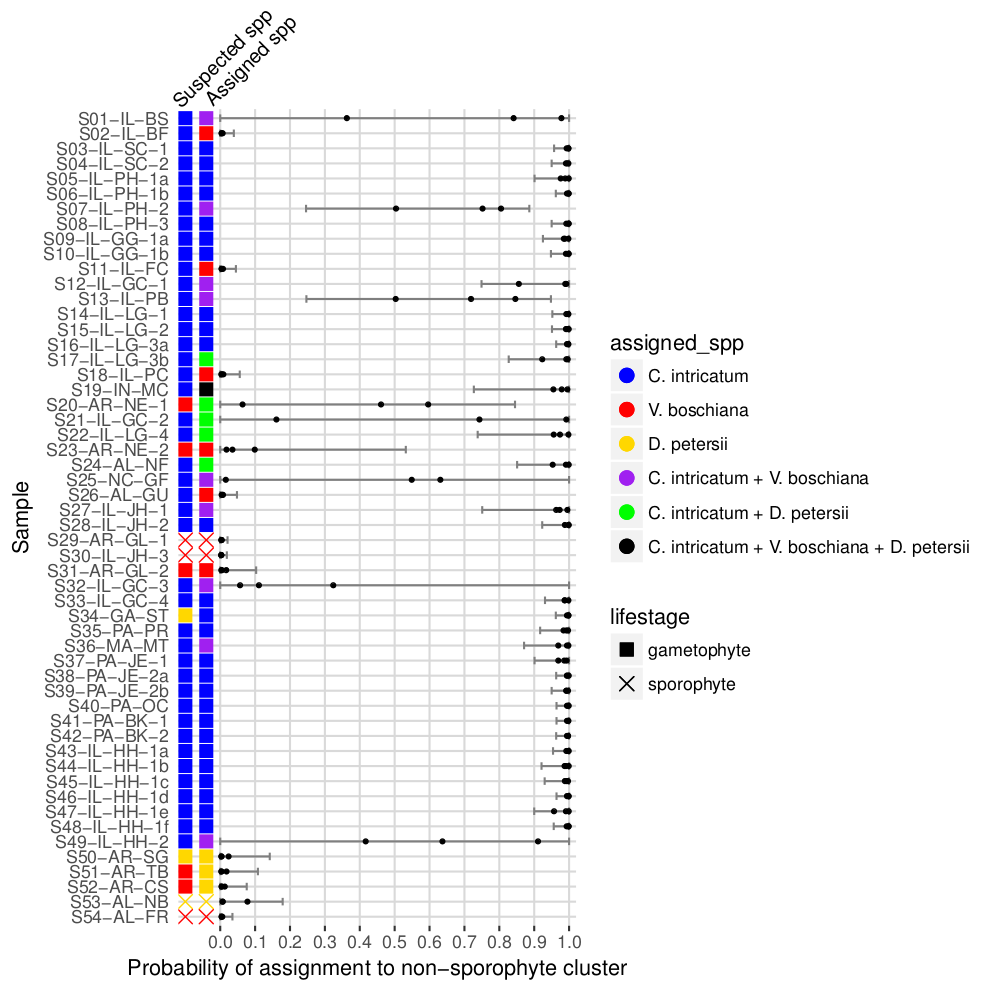
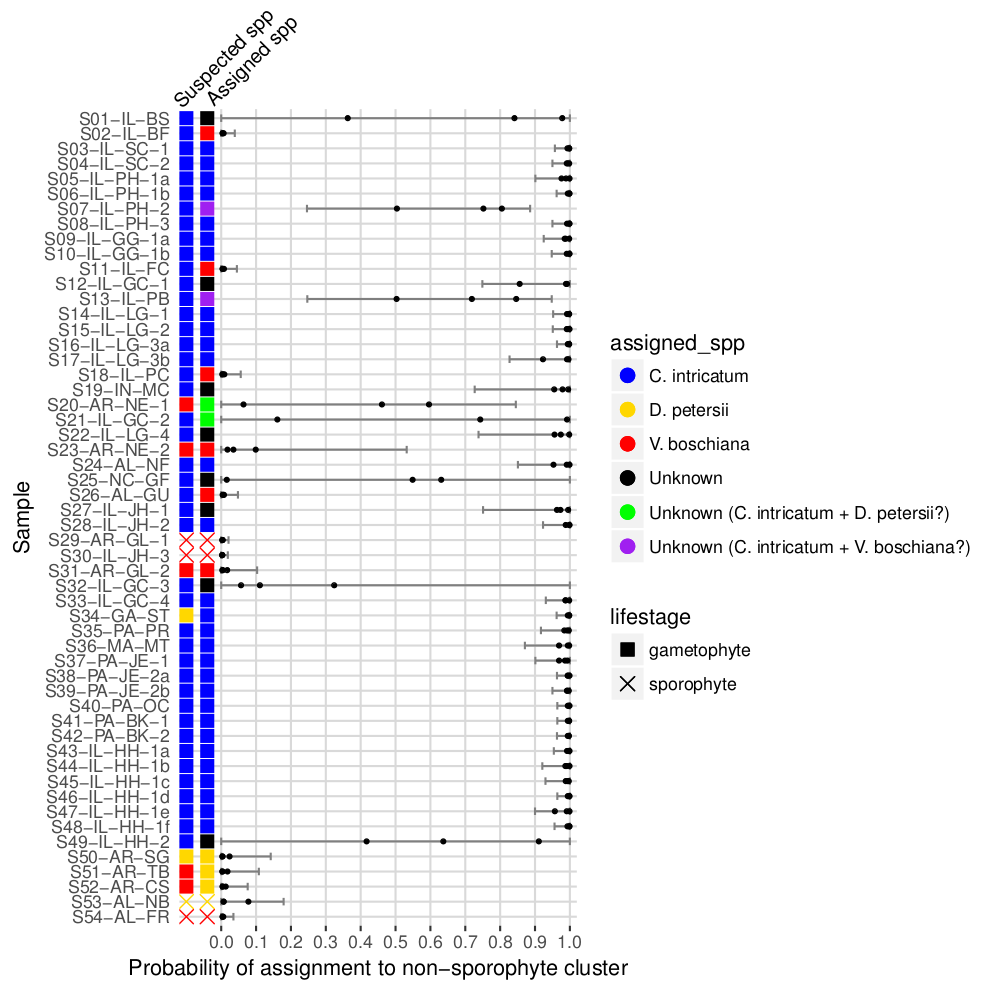
Changing how I handle the unknown species. Stop calling them mixed except for the 4 that I suspect really are.

Changed region(s): [[0.0, 0.0, 0.6409, 1.0], [0.6104, 0.3337, 0.9766, 0.5763], [0.6104, 0.6067, 0.763, 0.6977]]

diff --git a/Crepidomanes_GBS_manuscript.md b/Crepidomanes_GBS_manuscript.md
@@ -31,11 +31,11 @@ METHODS
 
 ## Sampling
 
-50 suspected _C.intricatum_, _D. petersii_, or _V. boschiana_ gametophyte samples, one _D. petersii_ sporophyte sample, and three _V. boschiana_ sporophyte samples collected between 1965 and 2007 were selected to represent much of the known geographic range of _C.intricatum_. Samples included populations from previously glaciated areas, from multiple sites within some geographic regions, and from multiple patches within some sites. In addition, multiple DNA samples were taken from some collections to look for variation within presumed clones (Table 1, Figure 2).
+50 suspected _C.intricatum_, _D. petersii_, or _V. boschiana_ gametophyte samples, one _D. petersii_ sporophyte sample, and three _V. boschiana_ sporophyte samples collected between 1965 and 2007 were selected to represent much of the known geographic range of _C.intricatum_. Samples included populations from previously glaciated areas, from multiple sites within some geographic regions, and from multiple patches within some sites. In addition, multiple DNA samples were extracted from some collections to look for variation within presumed clones (Table 1, Table 2).
 
 ## DNA extraction
 
-Because of the small size of individual gametophytes and their tangled filamentous growth, each sample represents many separate individuals (presumably clones) in close contact with each other in <1 square-cm of silica-dried gametophyte mat. Bryophytes, lichen, sand, and other contaminants were manually separated from the gametophyte tissue under 20X magnification. DNA was extracted from 2--70 mg of cleaned tissue using a CTAB protocol [@Doyle1987-dp] with the following modifications to the cell disruption process. Samples were ground in CTAB buffer in 1.5mL tubes using a pestle attached to an electric drill on its slowest speed setting. While grinding, the tube was bathed in ice and pressure on the drill was applied in 1 second pulses to avoid heating the sample. For samples with less than 10 mg of tissue, 10--50 mg of autoclaved sand was added to improve grinding. Each sample was ground in three rounds of approximately 100 pulses with 100 uL of CTAB buffer in the first round and an additional 200uL added in subsequent rounds (500 uL total). After extraction the DNA was quantified using a Qubit fluorometer (Invitrogen, Carlsbad, California, USA).
+Because of the small size of individual gametophytes and their tangled filamentous growth, each sample represents many individuals that were growing in close contact with each other (presumably clones) in <1 square-cm of silica-dried gametophyte mat. Bryophytes, lichen, sand, and other contaminants were manually separated from the gametophyte tissue under 20X magnification. DNA was extracted from 2--70 mg of cleaned tissue using a CTAB protocol [@Doyle1987-dp] with the following modifications to the cell disruption process. Samples were ground in CTAB buffer in 1.5mL tubes using a pestle attached to an electric drill on its slowest speed setting. While grinding, the tube was bathed in ice and pressure on the drill was applied in 1 second pulses to avoid heating the sample. For samples with less than 10 mg of tissue, 10--50 mg of autoclaved sand was added to improve grinding. Each sample was ground in three rounds of approximately 100 pulses with 100 uL of CTAB buffer in the first round and an additional 200uL added in subsequent rounds (500 uL total). After extraction the DNA was quantified using a Qubit fluorometer (Invitrogen, Carlsbad, California, USA).
 
 ## Library preparation and Illumina sequencing
 
@@ -45,11 +45,11 @@ The GBS library was prepared according to an established double-digest restricti
 
 Raw illumina reads were inspected for quality using fastQC [@Andrews2010-yx] and analyzed with ipyRAD v.0.7.1 [@Eaton2014-rr] using default settings except as noted below. Reads were sorted by barcode allowing up to two mismatched bases in the barcode sequence, filtered to remove low quality bases and reads with excessive low quality bases, and trimmed to remove Illumina adapter sequences.
 
-To determine the appropriate clustering threshold for _de novo_ assembly of loci, clustering was performed over a range of threshold values from 0.95 down to 0.80. Higher values risk splitting alleles of a single locus into separate clusters, whereas lower values risk combining paralogs into single clusters. At higher threshold values the average number of clusters in _V. boschiana_ sporophyte samples is higher than in suspected _V. boschiana_ gametophyte samples, as would be expected if the ploidy level of the sporophytes is greater than the gametophytes. As the threshold values decrease the average number of clusters in sporophyte and gametophyte samples become similar, suggesting that multiple alleles in the sporophyte samples are being combined into loci. A threshold value of 0.85 was selected because the number of clusters in _V. boschiana_ sporophyte and gametophyte samples are similar (Figure 2).
+To determine the appropriate clustering threshold for _de novo_ assembly of loci, clustering was performed over a range of threshold values from 0.95 down to 0.80. Higher values risk splitting alleles of a single locus into separate clusters, whereas lower values risk combining paralogs into single clusters. At higher threshold values the average number of clusters in _V. boschiana_ sporophyte samples is higher than in suspected _V. boschiana_ gametophyte samples, as would be expected if the ploidy level of the sporophytes is greater than the gametophytes. As the threshold values decrease the average number of clusters in sporophyte and gametophyte samples become similar, suggesting that multiple alleles in the sporophyte samples are being combined into loci. A threshold value of 0.85 was selected as the highest value where the number of clusters in _V. boschiana_ sporophyte and gametophyte samples are similar (Figure 2).
 
 Because allozyme studies suggest that _C.intricatum_ gametophytes are diploid [@Farrar1985-ht], samples were treated as diploid for estimating heterozygosity and error rates, and genotype calling in ipyRAD.
 
-Each 35--100 bp locus identified by ipyRAD may contain multiple SNPs. To avoid using tightly linked SNPs, ipyRAD provides output files with genotypes from 1 randomly selected SNP per locus (.stru format). However, this random sampling takes place after loci have been filtered for minimum sample coverage, so some SNPs may not have the requested minimum sample coverage even though the locus they are within does, resulting in higher than expected levels of missing data. Also, because the SNP from each locus is selected randomly at the time the output file is generated, multiple ipyRAD datasets from runs with increasing minimum sample coverage values may result in datasets that are not subsets of each other. To ensure that all the analyses in this study were based on subsets of the same data and only included SNPs with the desired minimum sample coverage, we used ipyRAD to generate a dataset of loci with coverage in six samples and filtered that "base ipyRAD dataset" to the desired minimum sample coverages using a custom python script.
+Each 35--100 bp locus identified by ipyRAD may contain multiple SNPs. To avoid using tightly linked SNPs, ipyRAD provides output files with genotypes from 1 randomly selected SNP per locus (.ustr format). However, this random sampling takes place after loci have been filtered for minimum sample coverage, so some SNPs may not have the requested minimum sample coverage even though the locus they are within does, resulting in higher than expected levels of missing data. Also, because the SNP from each locus is selected randomly at the time the output file is generated, multiple ipyRAD datasets from runs with increasing minimum sample coverage values may result in datasets that are not subsets of each other. To ensure that all the analyses in this study were based on subsets of the same data and only included SNPs with the desired minimum sample coverage, we used ipyRAD to generate a dataset of loci with coverage in six samples and filtered that "base ipyRAD dataset" to the desired minimum sample coverages using a custom python script.
 
 ## Separating samples by species
 
@@ -62,47 +62,54 @@ To further confirm species assignments from Structure, neighbor-joining Euclidea
 
 Mean observed heterozygosity levels in each species were compared using ANOVA with Tukey HSD post hoc comparisons, and loci were tested for deviation from Hardy Weinberg equilibrium in each species in R.
 
-## Removing non-_Crepidomanes_ genetic signal and investigating genetic variation in _C. intricatum_
+## Investigating genetic variation in _C. intricatum_
 
-To explore genetic variation in _C. intricatum_, gametophyte samples assigned as _C.intricatum_ and gametophytes assigned as _C. intricatum_ or mixed/unknown were further analyzed separately. To see if the genetic signal from _V. boschiana_ and _D. petersii_ in the potentially mixed samples could be removed bioinformatically allowing the _C. intricatum_ genetic signal to be analyzed, loci were identified as "_Crepidomanes_ loci" or "Non-_Crepidomanes_ loci" based on whether they were present in any sample assigned as _D. petersii_ or _V. boschiana_. We hypothesized that removing these non-_Crepidomanes_ loci from a sample with mixed genetic signal would remove loci specific to _D. petersii_ or _V. boschiana_ as well as loci shared between those species and _C. intricatum_, leaving mostly loci unique to _C. intricatum_. Four _C. intricatum_ subsets of the data were generated from the base dataset, with and without mixed/unknown samples, and with and without non-_Crepidomanes_ loci, each using a minimum sample coverage cutoff of 50% (Table 3). Patterns of genetic variation were analyzed using Structure, neighbor-joining Euclidean distance trees, and minimum spanning networks. Isolation by distance was tested using Mantel tests and Pearson's product-moment correlation with adagenet in R, and genetic distances were compared at different geographic scales and between glaciated and non-glaciated sites.
+To explore genetic variation in _C. intricatum_, gametophyte samples assigned as _C.intricatum_ and gametophytes assigned as _C. intricatum_ or mixed/unknown were further analyzed separately. Nine samples with low read counts (fewer than 1 million cleaned and quality filtered reads) were removed from the analysis to reduce the level of missing data and risk of mis-called genotypes due to missing alleles.
 
-NOTE- Evanno deltaK? Won't help for Crep-only datasets because it can't tell you if the optimum K=1. Run it on other datasets just so I can say I did it. In the end we will use K=3 on the all species runs because that is the clustering that makes sense for 3 species. On the Crep+Mixed we can use just about any K to show that the mixed samples group separately from the Crep samples. On the Crep-only, pretty much any K will show that the groupings don't make geographic sense and the samples that look the most different also happen to be the samples with lowest locus counts.
-
+To see if the genetic signal from _V. boschiana_ and _D. petersii_ in the potentially mixed samples could be removed bioinformatically, allowing the _C. intricatum_ genetic signal to be analyzed, loci were identified as "_Crepidomanes_ loci" or "Non-_Crepidomanes_ loci" based on whether they were present in any sample assigned as _D. petersii_ or _V. boschiana_. We hypothesized that removing these non-_Crepidomanes_ loci from a sample with mixed genetic signal would remove loci specific to _D. petersii_ or _V. boschiana_ as well as loci shared between those species and _C. intricatum_, leaving mostly loci unique to _C. intricatum_. Four _C. intricatum_ subsets of the data were generated from the base dataset, with and without mixed/unknown samples, and with and without non-_Crepidomanes_ loci, each using a minimum sample coverage cutoff of 50% (Table 3). Patterns of genetic variation were analyzed using Structure, neighbor-joining Euclidean distance trees, and minimum spanning networks. Isolation by distance was tested using Mantel tests and Pearson's product-moment correlation with adagenet in R, and genetic distances were compared at different geographic scales and between glaciated and non-glaciated sites.
 
 RESULTS
 =======
 
 ## Illumina sequencing data
 
-The sequenced dataset consisted of approximately 278 million reads. An analysis of the raw reads using fastQC [@Andrews2010-yx] raised no significant quality issues. Quality score ranges per base and per sequence were high and the N content (ambiguously called bases) was low over the length of the reads. Mean GC content was 42% and was consistent over the non-barcode portion of the reads. 85% of reads matched one of the expected barcodes (allowing up to 2 mismatches) with 4.4 million mean reads per barcode. All samples had >120000 reads (Table or figure of read-depths?).
+The sequenced dataset consisted of approximately 278 million reads. An analysis of the raw reads using fastQC [@Andrews2010-yx] raised no significant quality issues. Quality score ranges per base and per sequence were high and the N content (ambiguously called bases) was low over the length of the reads. Mean GC content was 42% and was consistent over the non-barcode portion of the reads. 85% of reads matched one of the expected barcodes (allowing up to 2 mismatches) with 4.4 million mean reads per barcode. Reads per sample ranged from 120000--11000000 (Table or figure of read-depths?).
 
 ## Separating samples by species
 
-Structure runs using the All-33, All-50, and All-66 datasets with three clusters (K=3, best of 20 replicate runs on each dataset) resulted in similar sample groupings despite the large differences in numbers of loci in each dataset. Gametophyte samples that were consistently assigned to the group without sporophytes (probability of assignment and confidence interval >= 0.900 in all three datasets) were classified as _C. intricatum_ (26 samples) for subsequent analyses. Gametophyte samples consistently not assigned to the non-sporophyte group (probability of assignment <=0.100 in all three datasets) were classified as "Not _C. intricatum_" (9 samples) and further assigned to the species of the sporophytes with which they grouped (6 _V. boschiana_, 3 _D. petersii_). All remaining gametophyte samples were classified as "Mixed/unknown" (15 samples), and further assigned as "_C. intricatum_ + _V. boschiana_" (9 samples), "_C. intricatum_ + _D. petersii_" (5 samples), or "_C. intricatum_ + _V. boschiana_ + _D. petersii_" (1 sample) based on which sporophyte cluster they were assigned with highest probability (Table 1, Figure 5). However, it should be noted that because these mixed/unknown samples may not actually represent mixed or hybrid gametophytes, subgroupings within the mixed/unknown samples are speculative.
+Structure runs using the All-33, All-50, and All-66 datasets with three clusters (K=3, best of 20 replicate runs on each dataset) resulted in similar sample groupings despite the large differences in numbers of loci and levels of missing data in each dataset. Gametophyte samples that were consistently assigned to the group without sporophytes (probability of assignment >= 0.900 and lower bound of the confidence interval >= 0.800) in all three Structure analyses were classified as _C. intricatum_ (29 samples) for subsequent analyses. Gametophyte samples consistently assigned to a group containing sporophytes (probability of assignment >= 0.100) in all three datasets were assigned to the species of the sporophytes with which they grouped (6 _V. boschiana_, 3 _D. petersii_). All remaining gametophyte samples were assigned as "Unknown" (12 samples)(Table 1, Figure 5). Several of the Unknown samples have low numbers of reads or loci, which may be causing them to be inconsistently assigned in the three structure runs. However two samples with large numbers of reads consistently had large proportions of their ancestry assigned to both _C. intricatum_ and _V. boschiana_, and two had large proportions assigned to both _C intricatum_ and _D. petersii_, suggesting that at least some of the Unknown samples might contain a mixture of gametophyte species or gametophytes produced by hybrid sporophytes.
 
 Neighbor-joining Euclidean distance trees generally support the gametophyte assignments based on Structure, with most samples for each species grouped together and mixed/unknown samples between the groups (Figure 6). There is even some support for many of the subgroupings of mixed/unknown samples. One clade includes all of the _D. petersii_ samples and two of the five suspected mixed _C. intricatum_ + _D. petersii_ samples, and another clade contains all of the _V. boschiana_ samples and seven of the nine suspected mixed _C. intricatum_ + _V. boschiana_ samples.
 
 Analyses of observed heterozygosity levels and deviation from Hardy Weinberg equilibrium support differences between samples classified as different species as well. Approximately 30% of loci in _C. intricatum_ samples and 8% of loci in mixed/unknown samples were not in Hardy Weinberg equilibrium, whereas none of the loci in _D. petersii_ or _V. boschiana_ samples were identified as deviating from HWE. Mean observed heterozygosity was higher in _C. intricatum_ samples (30%) compared to _D. petersii_ (12%), _V. boschiana_ (8%), or mixed/unknown samples 13%), and this difference was statistically significant (F=34.88, df=3, p<2e-16).
 
-## Removing non-_Crepidomanes_ genetic signal
-
-Removing the non-_Crepidomanes_ loci did not have a large effect on the total number of loci in the Mixed-filtered dataset relative to the Mixed-unfiltered dataset (6% of total loci filtered; Table 3), likely because even a non-_Crepidomanes_ locus present in all 15 of the mixed/unknown samples would not meet the 50% minimum sample coverage cutoff. Individual samples differed in the proportion of loci with signal (not missing data) that were lost (Table 4), but mixed/unknown samples lost an average of 19% of their loci with signal, whereas _C. intricatum_ samples only lost an average of 6%, and this difference is statistically significant (t=4.48, df=15.4, p=0.0004). As expected, removing the non-_Crepidomanes_ loci had even less effect on the total number of loci in the _C. intricatum_ filtered dataset relative to the _C. intricatum_ unfiltered dataset, with only 2% of total loci filtered (Table 3; Table 4).
+HERE OR DISCUSSION? Seven samples were apparently a different species than what was suspected based on geographic location or proximity to sporophytes. Four suspected C. intricatum samples appear to be V. boschiana samples, one suspected D. petersii is C. intricatum, and two suspected V. boschiana samples are D. petersii. In addition, four samples may contain mixtures of more than one species of gametophyte or hybrid gametophytes including S20, that suspected to be V. boschiana but consistently groups with either C. intricatum gametophytes or D. petersii sporophytes, but never with V. boschiana sporophytes. MORE DETAIL ABOUT WHY EACH SAMPLE WAS SUSPECTED? DISCUSS WHAT THIS MEANS ABOUT OUR ABILITY TO ID GAMETOPHYTES BASED ON PRESENCE/ABSENCE OF SPOROPHYTES
 
 ## Investigating genetic variation in _C. intricatum_
 
+Removing the non-_Crepidomanes_ loci did not have a large effect on the total number of loci in the Mixed-filtered dataset relative to the Mixed-unfiltered dataset (6% of total loci filtered; Table 3), likely because even a non-_Crepidomanes_ locus present in all 15 of the mixed/unknown samples would not meet the 50% minimum sample coverage cutoff. Individual samples differed in the proportion of loci with signal (not missing data) that were lost (Table 4), but mixed/unknown samples lost an average of 19% of their loci with signal, whereas _C. intricatum_ samples only lost an average of 6%, and this difference is statistically significant (t=4.48, df=15.4, p=0.0004). As expected, removing the non-_Crepidomanes_ loci had even less effect on the total number of loci in the _C. intricatum_ filtered dataset relative to the _C. intricatum_ unfiltered dataset, with only 2% of total loci filtered (Table 3; Table 4).
+
 Structure runs using the Mixed-unfiltered subset of the data suggest that the mixed/unknown samples cluster separately from the _C. intricatum_ samples (Figure 7a). _C. intricatum_ samples all have most (>90%) of their ancestry assigned to clusters c1 and c2, whereas 12 of the 15 mixed/unknown samples have the majority of their ancestry assigned to other clusters and all 15 have over 10% of their ancestry assigned to other clusters.  After filtering non-_Crepidomanes_ loci (Figure 7b) this apparent difference between _C. intricatum_ and mixed/unknown samples remains, with only two mixed/unknown samples (S07 and S49) changing their ancestry assignments to more closely match the _C. intricatum_ samples. It is possible that these two samples are actually mixed samples and the other 13 just appeared to be mixed due to insufficient genetic signal. However, it is also possible that the attempt to bioinformatically remove non-_Crepidomanes_ genetic signal was not successful and that removing the loci present in the _V. boschiana_ and _D. petersii_ samples did not remove a large enough proportion of the non-_Crepidomanes_ loci. In either case, because we could not determine whether the mixed/unknown samples cluster separately because of variation in _C. intricatum_ genetic signal or because of genetic signal from other species, the remaining analyses focused only on the 26 _C. intricatum_ samples. The results for unfiltered and filtered _C. intricatum_ datasets were similar to each other and yielded identical inferences, so only results for the _C. intricatum_-filtered dataset are presented.
 
-Analysis of K-means and Evanno's delta-K for the C. intricatum + mixed/unknown data subsets suggested that the samples cluster optimally into 2--6 groups (Figure 9; Figure 11), but for the _C. intricatum_ samples the optimal number of clusters appears to be just one (Figure 10; Figure 11). Structure results using K=2 divide the ancestry for every sample between two clusters (Figure 8a), and at higher values, samples with the lowest number of loci (S45, S34, S04) begin to group separately (Figure 8b).
+Analysis of K-means and Evanno's delta-K for the C. intricatum + mixed/unknown data subsets suggested that the samples cluster optimally into 2--6 groups (Figure 9; Figure 11), but for the _C. intricatum_ samples the optimal number of clusters appears to be just one (Figure 10; Figure 11). Structure results using K=2 divide the ancestry for every sample between two clusters with no clear geographic pattern (Figure 8).
 
-Mantel tests failed to find evidence of isolation by distance. Using Pearson's product-moment correlation, geographic and genetic distance are weakly correlated (R=0.13) and this correlation is statistically significantly different from zero (t = 2.349, df = 323, p=0.01943), but examination of genetic distance at different geographic scales suggests that the correlation is due to lower genetic distance in within-collection comparisons (Figure 14). Genetic distance is similar for within-site, within-region, and between region comparisons and the correlation between geographic and genetic distance (R=0.08) is not statistically significant when only including comparisons at these scales (t = 1.4177, df = 305, p-value = 0.1573).
+Mantel tests failed to find evidence of isolation by distance (r~m~=0.129, p=0.099 with 999 permutations). Using Pearson's product-moment correlation, geographic and genetic distance are weakly correlated (r=0.129) and this correlation is statistically significantly different from zero (t = 2.349, df = 323, p=0.01943), but examination of genetic distance at different geographic scales suggests that the correlation is due to lower genetic distances in within-collection comparisons (Figure 14). The distribution of genetic distances is similar for within-site, within-region, and between region comparisons and the correlation between geographic and genetic distance (r=0.081) is not statistically significant when only including comparisons at these scales (t = 1.4177, df = 305, p-value = 0.1573).
 
 The Neighbor-joining Euclidean distance tree (Figure 12) and the Minimum spanning network (Figure 13) support the lack of genetic structure identified by Structure and the apparent lack of isolation by distance. Tip branch lengths are long relative to internal branches and samples from the same site or even the same collection do not consistently form monophyletic groups or distinct clusters.
+
+Comparison of "expected clones" (samples from the same collection)? Pairwise distance between samples from the same collection are not zero. They range from some of the lowest pairwise distances to some in the XXth percentile of ranked pairwise distances. Is this due to actual genetic variation between these samples (i.e., they are NOT identical clones) or due to noise/error in the GBS process? To test this we sampled cleaned/filtered reads from a single sample to make multiple new "artificial clone samples" with the same number of reads as the original sampes. We then replaced the reads from the original samples with the artificial clone samples and ran the dataset through the ipyrad pipeline. The genetic distances between the artificial clone samples ranged from XXX to XXX or the XXth to XXth percentile of ranked distances.
+
+NOTE-Reasons not to use the Crep+Mixed analysis:
+  In the Genetic distance vs Geographic distance plot, it is clear that Mixed vs Mixed and Crep vs Mixed pairwise comparisons are higher than Crep vs Crep, suggesting that the Mixed samples are more distant.
+  In NJ trees for the Mixed datasets, the branch lengths on Mixed samples are longer than Crep samples. And Mixed samples tend to group together: S20 & S21, S12 & S13 (& almost S25)
+  Structure assignments and NJ trees are very similar for filtered and unfiltered datasets, suggesting removing Non-Crep loci had little effect.
 
 DISCUSSION
 ==========
 NOTE- Primary focus on the 3 species story. Secondary focus on the lack of genetic structure and variation(?) and what that means for our ability to distinguish between hypotheses.
 
 NOTE- on hypotheses:
+
 Every population of gametophytes was established recently or anciently by dispersal:
   - spores
     - from nearby sporophytes
@@ -110,6 +117,7 @@ Every population of gametophytes was established recently or anciently by disper
   - gemmae
     - from nearby gametophytes
     - from far away gametophytes
+
 Every population is maintained by:
   * reproduction
     - asexual gametophyte reproduction (clonal growth)
@@ -121,9 +129,16 @@ Every population is maintained by:
     - gemmae
       - from nearby gametophytes
       - from far away gametophytes
+
 The different hypotheses for how these populations were established and maintained are just based on different combinations of these. Some are more likely than others. Some are very likely explanations for many populations but are not possible for populations in glaciated areas or for the first population. When considering the first population, does liklihood of an establishment hypothesis even matter? It just had to happen once.
 
 NOTE- Compare to Devil's Hole Pupfish system. Similar questions about establishment with similar possible timeframes. Well funded and researched due to high conservation interest, no issues with ploidy, no issues with asexual reproduction, potential source populations are nearby... but they still can't reach a consensus.
+
+QUESTIONS- If I had 2 samples that really were genetically identical clones, how big would the genetic distance between them be just due to PCR/sequencing errors, allele sampling, and missing data? Because I don't have any true replicates (the same DNA extraction run twice in the library) I don't have a reference for this so I don't know if the differences between my samples represent "real" genetic differences or GBS noise.
+
+ACKNOWLEDGEMENTS
+================
+NOTE- U of U CHPC for computing resources
 
 
 REFERENCES
